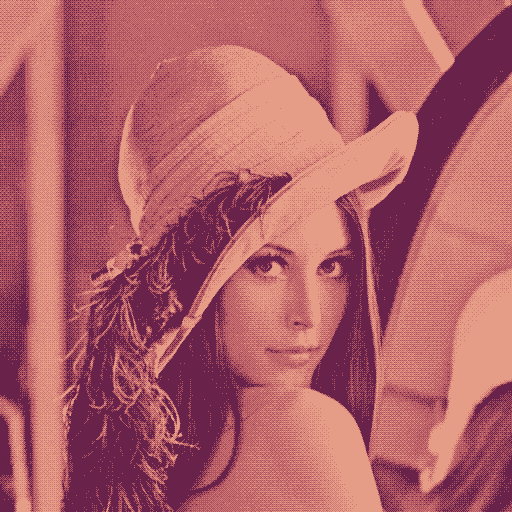
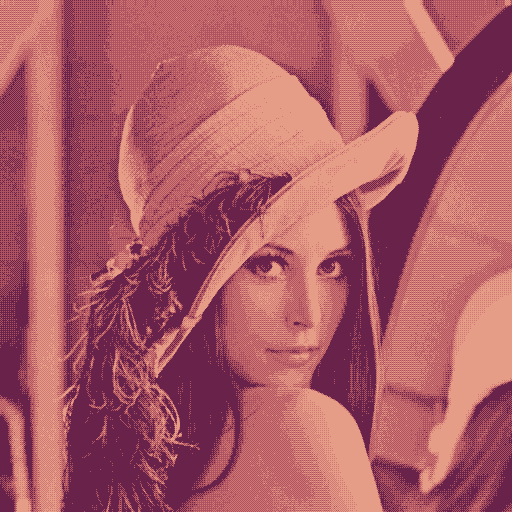
Parametrizable Bayer matrix size

diff --git a/main.go b/main.go
@@ -17,6 +17,7 @@ func main() {
 	srcFilepath := flag.String("in", "", "input image filepath")
 	outFilepath := flag.String("out", "", "output image filepath")
 	paletteMaxSize := flag.Int("pal", 4, "maximum size of the palette")
+	bayerMatSize := flag.Int("bay", 4, "Bayer dithering matrix size (2, 4 or 8)")
 	flag.Parse()
 
 	// Open the source image file.
@@ -27,7 +28,7 @@ func main() {
 	}
 
 	// Process the image; apply color quantization.
-	outImage := QuantizeImage(img, *paletteMaxSize)
+	outImage := QuantizeImage(img, *paletteMaxSize, *bayerMatSize)
 
 	// Write the resulting image to a file.
 	err = WriteImageToFile(outImage, *outFilepath)
@@ -44,7 +45,7 @@ func main() {
 // QuantizeImage creates an image similar to the one given as input.
 // Its number of colors is reduced to approximately <paletteMaxSize> and a Bayer dithering
 // is also applied to approximate the original image.
-func QuantizeImage(img image.Image, paletteMaxSize int) image.Image {
+func QuantizeImage(img image.Image, paletteMaxSize int, bayerMatSize int) image.Image {
 	// Create a color palette from the input image.
 	palette := PaletteFromImage(img, paletteMaxSize)
 
@@ -58,7 +59,7 @@ func QuantizeImage(img image.Image, paletteMaxSize int) image.Image {
 			c := PixelColor(img, x, y)
 
 			// Apply Bayer dithering.
-			ditheredColor := BayerDithering(c, x, y, len(palette))
+			ditheredColor := BayerDithering(c, x, y, len(palette), bayerMatSize)
 
 			// Select a color from the palette.
 			outColor := NearestColor(ditheredColor, palette)
@@ -71,25 +72,57 @@ func QuantizeImage(img image.Image, paletteMaxSize int) image.Image {
 	return outImage
 }
 
-// BayerDithering transforms a pixel color using Bayer dithering of order 4, for now.
-// TODO: add a function parameter N (N = 2, 4 or 8) so that client can choose the matrix size.
-func BayerDithering(c color.RGBA, x, y int, paletteSize int) color.RGBA {
-	// Bayer matrix - Stored row by row.
-	const N = 4
-	mat := []float64{
-		0., 8., 2., 10.,
-		12., 4., 14., 6.,
-		3., 11., 1., 9.,
-		15., 7., 13., 5.,
+// Only three sizes for the Bayer matrix are supported: 2, 4 or 8.
+// If the parameter <bayerMatSize> is different from all these values then a size of 8 is selected.
+func BayerCoefficient(x, y int, bayerMatSize int) float64 {
+	if bayerMatSize != 2 && bayerMatSize != 4 && bayerMatSize != 8 {
+		bayerMatSize = 8
 	}
 
-	// Get the matrix coefficient from (x,y)
-	i := (y%N)*N + (x % N)
-	coef := mat[i] / float64(N*N)
+	// The Bayer matrices are stored in an array.
+	// This integer is the array index of the matrix coefficient.
+	i := (y%bayerMatSize)*bayerMatSize + (x % bayerMatSize)
+
+	// Retrieve the coefficient.
+	coef := 0.
+	switch bayerMatSize {
+	case 2:
+		mat := [...]float64{0., 2., 3., 1.}
+		coef = mat[i]
+	case 4:
+		mat := [...]float64{
+			0., 8., 2., 10.,
+			12., 4., 14., 6.,
+			3., 11., 1., 9.,
+			15., 7., 13., 5.,
+		}
+		coef = mat[i]
+	default:
+		// Use a matrix size of 8.
+		mat := [...]float64{
+			0., 32., 8., 40., 2., 34., 10., 42.,
+			48., 16., 56., 24., 50., 18., 58., 26.,
+			12., 44., 4., 36., 14., 46., 6., 38.,
+			60., 28., 52., 20., 62., 30., 54., 22.,
+			3., 35., 11., 43., 1., 33., 9., 41.,
+			51., 19., 59., 27., 49., 17., 57., 25.,
+			15., 47., 7., 39., 13., 45., 5., 37.,
+			63., 31., 55., 23., 61., 29., 53., 21.,
+		}
+		coef = mat[i]
+	}
+
+	coef /= float64(bayerMatSize * bayerMatSize)
 	coef -= 0.5
 
-	R := 255. / (float64(paletteSize))
+	return coef
+}
 
+// BayerDithering transforms a pixel color using Bayer dithering of order 4, for now.
+// TODO: add a function parameter N (N = 2, 4 or 8) so that client can choose the matrix size.
+func BayerDithering(c color.RGBA, x, y int, paletteSize int, bayerMatSize int) color.RGBA {
+	coef := BayerCoefficient(x, y, bayerMatSize)
+	R := 255. / (float64(paletteSize))
 	k := R * coef
 
 	// Manually add the color offset to each channel value.
